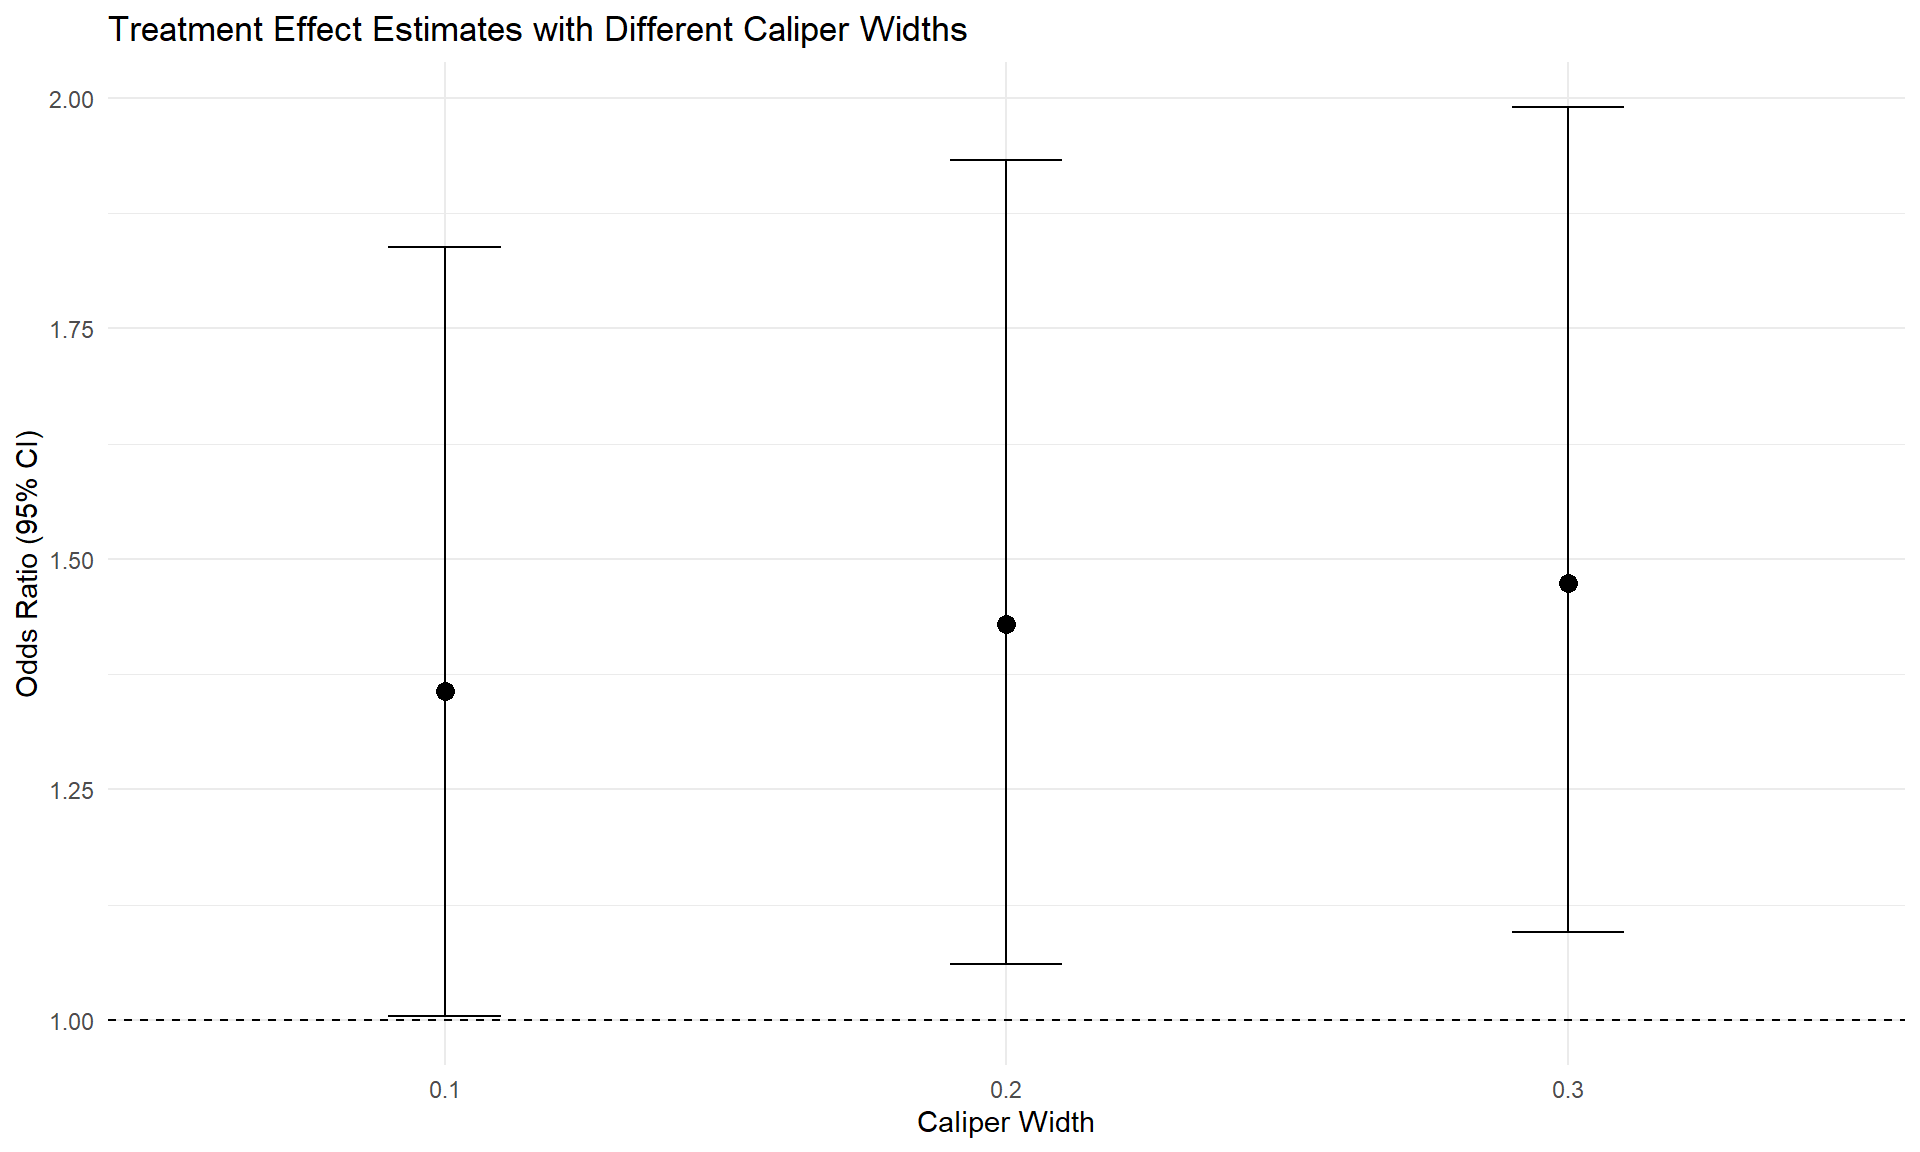
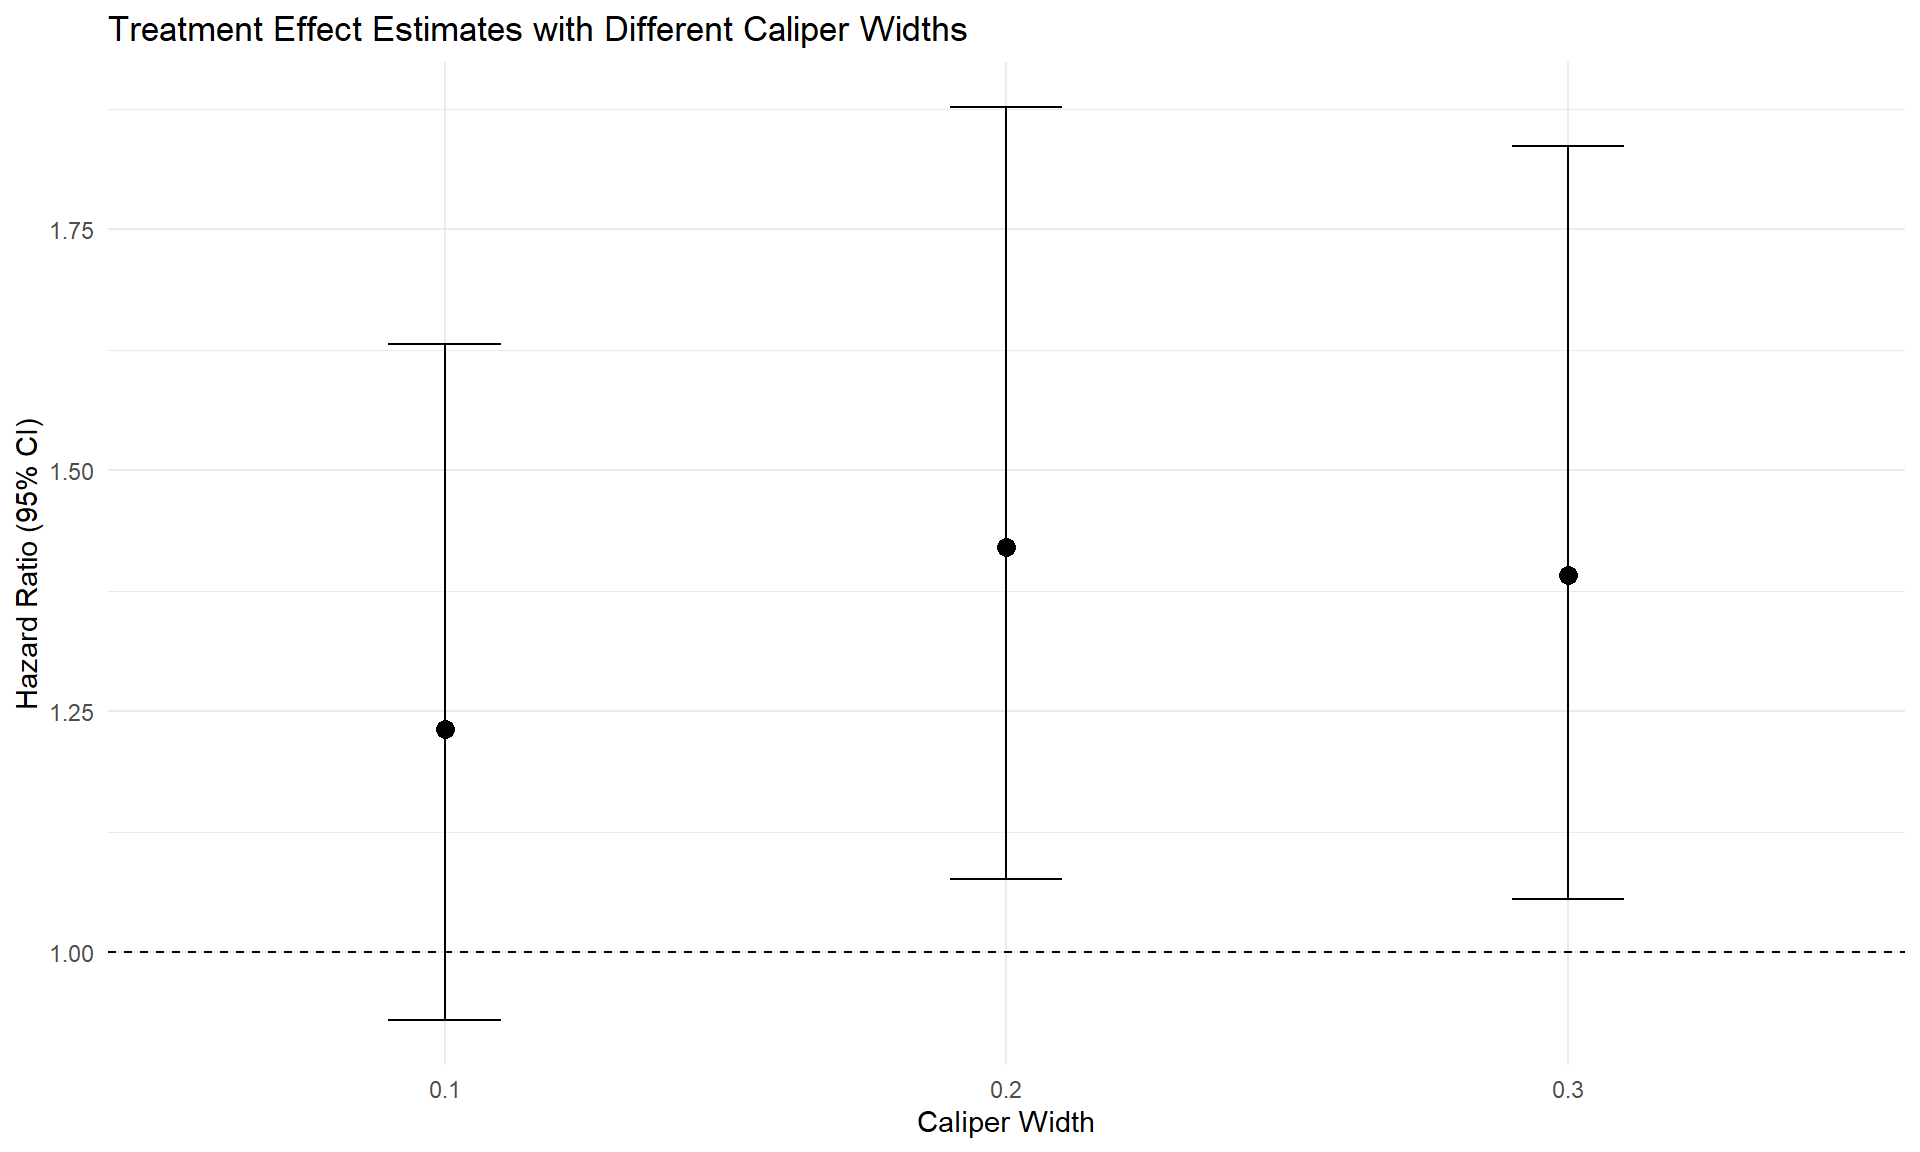
add tutorial RMD

diff --git a/PS_analysis.html b/PS_analysis.html
@@ -1026,17 +1026,17 @@ for (cal in caliper_values) {
   m_data &lt;- match.data(m_out)
 
   # Calculate treatment effect
-  model &lt;- glm(event ~ treatment, data = m_data, family = binomial)
+  model &lt;- coxph(Surv(observed_time, event) ~ treatment, data = m_data)
 
-  # Get odds ratio and confidence interval
-  or &lt;- exp(coef(model)[&quot;treatment&quot;])
+  # Get hazard ratio and confidence interval
+  hr &lt;- exp(coef(model)[&quot;treatment&quot;])
   ci &lt;- exp(confint(model)[&quot;treatment&quot;, ])
 
   # Add results to dataframe
   caliper_results &lt;- rbind(caliper_results,
                            data.frame(Caliper = cal,
                                       Matched_Pairs = nrow(m_data)/2,
-                                      OR = or,
+                                      HR = hr,
                                       Lower_CI = ci[1],
                                       Upper_CI = ci[2]))
 }
@@ -1051,7 +1051,7 @@ knitr::kable(caliper_results, digits = 3,
 <th align="left"></th>
 <th align="right">Caliper</th>
 <th align="right">Matched_Pairs</th>
-<th align="right">OR</th>
+<th align="right">HR</th>
 <th align="right">Lower_CI</th>
 <th align="right">Upper_CI</th>
 </tr>
@@ -1061,37 +1061,37 @@ knitr::kable(caliper_results, digits = 3,
 <td align="left">treatment</td>
 <td align="right">0.1</td>
 <td align="right">693</td>
-<td align="right">1.357</td>
-<td align="right">1.005</td>
-<td align="right">1.839</td>
+<td align="right">1.231</td>
+<td align="right">0.930</td>
+<td align="right">1.631</td>
 </tr>
 <tr class="even">
 <td align="left">treatment1</td>
 <td align="right">0.2</td>
 <td align="right">693</td>
-<td align="right">1.429</td>
-<td align="right">1.061</td>
-<td align="right">1.933</td>
+<td align="right">1.421</td>
+<td align="right">1.076</td>
+<td align="right">1.876</td>
 </tr>
 <tr class="odd">
 <td align="left">treatment2</td>
 <td align="right">0.3</td>
 <td align="right">693</td>
-<td align="right">1.473</td>
-<td align="right">1.095</td>
-<td align="right">1.990</td>
+<td align="right">1.392</td>
+<td align="right">1.055</td>
+<td align="right">1.836</td>
 </tr>
 </tbody>
 </table>
 <pre class="r"><code># Plot results
-ggplot(caliper_results, aes(x = factor(Caliper), y = OR)) +
+ggplot(caliper_results, aes(x = factor(Caliper), y = HR)) +
   geom_point(size = 3) +
   geom_errorbar(aes(ymin = Lower_CI, ymax = Upper_CI), width = 0.2) +
   geom_hline(yintercept = 1, linetype = &quot;dashed&quot;) +
   labs(
     title = &quot;Treatment Effect Estimates with Different Caliper Widths&quot;,
     x = &quot;Caliper Width&quot;,
-    y = &quot;Odds Ratio (95% CI)&quot;
+    y = &quot;Hazard Ratio (95% CI)&quot;
   ) +
   theme_minimal()</code></pre>
 <p><img src="PS_analysis_files/figure-html/sensitivity-caliper-1.png" width="960" style="display: block; margin: auto;" /></p>
@@ -1110,17 +1110,17 @@ for (method in match_methods) {
   m_data &lt;- match.data(m_out)
 
   # Calculate treatment effect
-  model &lt;- glm(event ~ treatment, data = m_data, family = binomial)
+  model &lt;- coxph(Surv(observed_time, event) ~ treatment, data = m_data)
 
-  # Get odds ratio and confidence interval
-  or &lt;- exp(coef(model)[&quot;treatment&quot;])
+  # Get hazard ratio and confidence interval
+  hr &lt;- exp(coef(model)[&quot;treatment&quot;])
   ci &lt;- exp(confint(model)[&quot;treatment&quot;, ])
 
   # Add results to dataframe
   method_results &lt;- rbind(method_results,
                           data.frame(Method = method,
                                      Matched_Pairs = nrow(m_data)/2,
-                                     OR = or,
+                                     HR = hr,
                                      Lower_CI = ci[1],
                                      Upper_CI = ci[2]))
 }
@@ -1135,7 +1135,7 @@ knitr::kable(method_results, digits = 3,
 <th align="left"></th>
 <th align="left">Method</th>
 <th align="right">Matched_Pairs</th>
-<th align="right">OR</th>
+<th align="right">HR</th>
 <th align="right">Lower_CI</th>
 <th align="right">Upper_CI</th>
 </tr>
@@ -1145,37 +1145,37 @@ knitr::kable(method_results, digits = 3,
 <td align="left">treatment</td>
 <td align="left">nearest</td>
 <td align="right">693</td>
-<td align="right">2.317</td>
-<td align="right">1.751</td>
-<td align="right">3.086</td>
+<td align="right">2.142</td>
+<td align="right">1.653</td>
+<td align="right">2.775</td>
 </tr>
 <tr class="even">
 <td align="left">treatment1</td>
 <td align="left">optimal</td>
 <td align="right">693</td>
-<td align="right">1.216</td>
-<td align="right">0.895</td>
-<td align="right">1.655</td>
+<td align="right">1.276</td>
+<td align="right">0.957</td>
+<td align="right">1.700</td>
 </tr>
 <tr class="odd">
 <td align="left">treatment2</td>
 <td align="left">full</td>
 <td align="right">2500</td>
-<td align="right">1.366</td>
-<td align="right">1.081</td>
-<td align="right">1.744</td>
+<td align="right">1.349</td>
+<td align="right">1.079</td>
+<td align="right">1.686</td>
 </tr>
 </tbody>
 </table>
 <pre class="r"><code># Plot results
-ggplot(method_results, aes(x = Method, y = OR)) +
+ggplot(method_results, aes(x = Method, y = HR)) +
   geom_point(size = 3) +
   geom_errorbar(aes(ymin = Lower_CI, ymax = Upper_CI), width = 0.2) +
   geom_hline(yintercept = 1, linetype = &quot;dashed&quot;) +
   labs(
     title = &quot;Treatment Effect Estimates with Different Matching Methods&quot;,
     x = &quot;Matching Method&quot;,
-    y = &quot;Odds Ratio (95% CI)&quot;
+    y = &quot;Hazard Ratio (95% CI)&quot;
   ) +
   theme_minimal()</code></pre>
 <p><img src="PS_analysis_files/figure-html/alternative-matching-1.png" width="960" style="display: block; margin: auto;" /></p>

diff --git a/case_study_AKI.html b/case_study_AKI.html
@@ -373,7 +373,19 @@ Simulation-Based Case Study</h1>
 <div id="overview" class="section level1">
 <h1>Overview</h1>
 <p>This document simulates and analyzes data for a case study on HCV
-treatment and kidney injury. The steps include:</p>
+treatment and kidney injury. This is based on a real post-market
+comparative safety analysis that assessed the risk of acute kidney
+injury (AKI) in patients with chronic hepatitis C virus (HCV) who were
+treated with sofosbuvir (SOF)-containing direct-acting antivirals (DAAs)
+compared to non-SOF DAAs. The study used real-world data from the
+HealthVerity database, including administrative claims and electronic
+medical records, to conduct a retrospective cohort analysis. The study
+applied propensity score matching (PSM) to balance baseline
+characteristics between treatment groups and used Cox proportional
+hazards models to estimate the hazard ratio (HR) of AKI incidence. The
+primary objective was to determine whether exposure to SOF-containing
+DAAs was associated with a higher risk of AKI compared to non-SOF DAAs.
+The steps include:</p>
 <ol style="list-style-type: decimal">
 <li>Data simulation with realistic confounding relationships</li>
 <li>Introduction of missing data following realistic patterns</li>
@@ -654,17 +666,17 @@ impute_result &lt;- missForest(df_cov, verbose = TRUE)</code></pre>
 <pre><code>##   missForest iteration 1 in progress...done!
 ##     estimated error(s): 0.4263795 
 ##     difference(s): 0.0004873576 
-##     time: 4.59 seconds
+##     time: 4.52 seconds
 ## 
 ##   missForest iteration 2 in progress...done!
 ##     estimated error(s): 0.4263694 
 ##     difference(s): 0.0004590606 
-##     time: 5.09 seconds
+##     time: 5.22 seconds
 ## 
 ##   missForest iteration 3 in progress...done!
 ##     estimated error(s): 0.4262343 
 ##     difference(s): 0.0004983446 
-##     time: 5.79 seconds</code></pre>
+##     time: 4.97 seconds</code></pre>
 <pre class="r"><code># Extract the imputed data
 df_cov_imputed &lt;- impute_result$ximp
 
